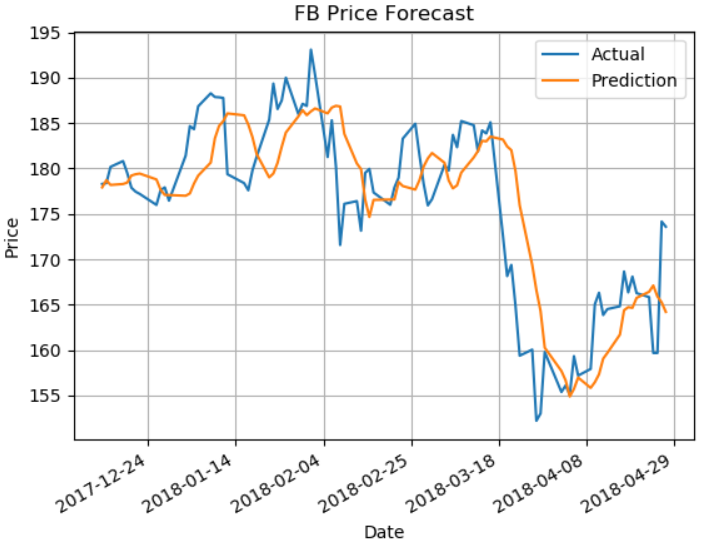
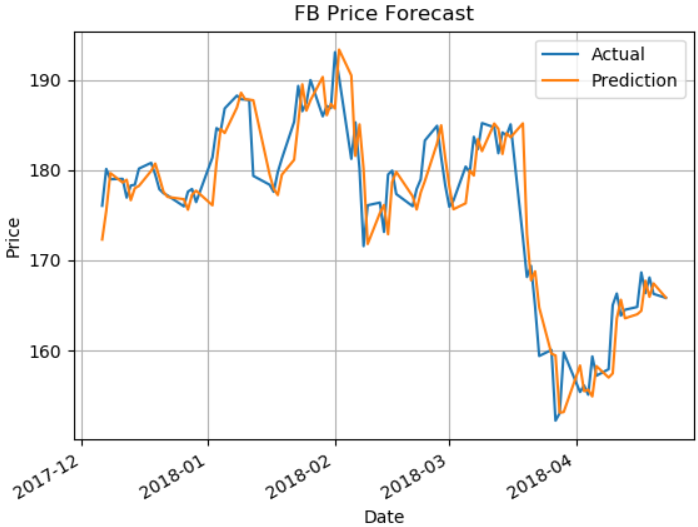
great improvements

Changed region(s): [[0.0, 0.0, 1.0, 0.9412], [0.5115, 0.9715, 0.6017, 1.0]]

diff --git a/machine_learning/testing/analysis.py b/machine_learning/testing/analysis.py
@@ -16,13 +16,13 @@ dates_dic = {
     'TSLA': ['2013-01-01', '2013-06-01'],
     }
 
-window = 3
+window = 2
 future_gap = 1
-time_steps = 5
+time_steps = 1
 neurons = [256, 256, 32, 1]
 drop_out = 0.2                                   
 batch_size = 2048
-epochs = 150
+epochs = 300
 validation_split = 0.1
 verbose = 1
 early_stopping_callback = EarlyStopping(monitor='val_loss', min_delta=0, 

diff --git a/machine_learning/testing/test.py b/machine_learning/testing/test.py
@@ -10,9 +10,9 @@ dates_dic = {
     'AMZN': ['2017-08-01', '2018-04-01'],
     }
 
-window = 3
+window = 2
 future_gap = 1
-time_steps = 5
+time_steps = 1
 neurons = [256, 256, 32, 1]
 drop_out = 0.2                                   
 batch_size = 2048

diff --git a/README.md b/README.md
@@ -2,21 +2,50 @@
 *Machine Learning for Trading*
 
 ## Project Overview
-*GUC Bachelor Thesis Project*
+*GUC 2018 Bachelor Thesis Project*
 
-This is the experimentation section of the thesis. 
-* **Thesis Research Questions:**
+Stock market prediction is an interesting realm to test the capabilities of machine learning
+on. The nature of the stock market is volatile, complicated, and very sensitive to external 
+information, which makes it difficult to predict. Different machine learning models are 
+developed to forecast future stock prices. Technical indicators are computed using historical 
+stock prices to provide the machine learning model with a daily time series of a stock prices 
+indications to learn and develop its prediction engine based on. The models used are: Linear 
+Regressor, kNN Regressor, FFNN, and RNN LSTM. The prediction models are compared 
+and evaluated using different metrics. Several case studies are performed to evaluate the 
+performance of the prediction model. From the case studies, few results were obtained: 
+
+(1) Technical indicators can be used to teach a machine learning model about the nature of 
+a certain stock in the stock market, the model can then be used to predict future prices. 
+(2) The model is capable of predicting the price and the fluctuations in price caused by the 
+stock market movement. 
+(3) The model naturally lags on picking up on external events that impact the stock price suddenly.
+
+The research mainly aims to exploit the capabilities of machine learning in the field of stock trading.
+It also aims to propose backed-up hypothesis and analysis on the capabilities of machine learning in
+the domain of stock price prediction.
+
+* **The research questions for the bachelor thesis are:**
   * *Can machine learning be used to predict future stock prices?*
+
+  Is it possible to design a machine learning model that is trained  on historical prices of a 
+  certain stock, and to be able to query the model for future prices? How reliable will the model
+  be? What are the model's constraints, guarantees, and weaknesses?
+
   * *How does the performance of different machine learning algorithms vary?*
 
+  Which machine learning algorithm does the best job, and how do the different algorithms compare
+  with each other? A grading criteria should be designed to compare and assess the algorithms.
+
+This Github repository is the experimentation section of the thesis.
+
 ## Algorithms Evaluation
-*Time Series Forecast Evaluation*
+*Development Phase*
 
 * [Original](https://github.com/ahmedhamdi96/ML4T/blob/master/machine_learning/original_evaluation.md)
 * [New](https://github.com/ahmedhamdi96/ML4T/blob/master/machine_learning/new_evaluation.md)
 
 ## Testing
-*Predicting Stock prices for a portfolio of 4 companies during different interesting time periods*
+*Testing Phase*
 
     * Considering that the LSTM model is regarded as the flagship machine learning model in this project, 
     it is the one used in this testing section.
@@ -25,11 +54,13 @@ This is the experimentation section of the thesis.
     before the required testing period.
 
 ### Stable Stock vs Volatile Stock Forecast
+*Volatility Test*
 
 This test is used to demonstrate the effect of the volatility of the stock on the accuracy of the model's forecast. 
 See results [here](https://github.com/ahmedhamdi96/ML4T/blob/master/machine_learning/testing/results/stable_vs_volatile.md).
 
 ### During Times of Change
+*Predicting Stock prices for a portfolio of 4 companies during different interesting time periods*
 
 * **[Facebook](https://github.com/ahmedhamdi96/ML4T/blob/master/machine_learning/testing/results/facebook.md)**
 
@@ -77,12 +108,14 @@ See results [here](https://github.com/ahmedhamdi96/ML4T/blob/master/machine_lear
     in AWS' operating income, and the success of Alexa-enabled devices.
 
 ## Analysis
-To analyze the forecast and evaluate how fast does the model predict the closest price to the actual, a lag metric is created.
+*Analysing the tests using a novel metric*
+
+To analyse the forecast and evaluate how fast does the model predict the closest price to the actual, a lag metric is created.
 The **_Prediction-Actual Lag (PAL)_** metric works as follows: 
 The future gap chosen when making the forecast indicates how far into the future should a prediction be, for example if the future gap is set to 1, the forecast is a next-trading-day forecast. The actual prices are traversed and compared with the predictions, each actual price datapoint is compared against a number of the prediction data points, that number is the future gap, so if the future gap is set to 5, then each actual datapoint is compared to the corresponding prediction datapoint and the 4 next to it. See **_PAL_** in action [here](https://github.com/ahmedhamdi96/ML4T/blob/master/machine_learning/testing/results/analysis.md).
 
 ## Software and Libraries
-This project uses the following software and Python libraries:
+*This project uses the following software and Python libraries:*
 
 * [NumPy](http://www.numpy.org/)
 * [pandas](http://pandas.pydata.org/)
